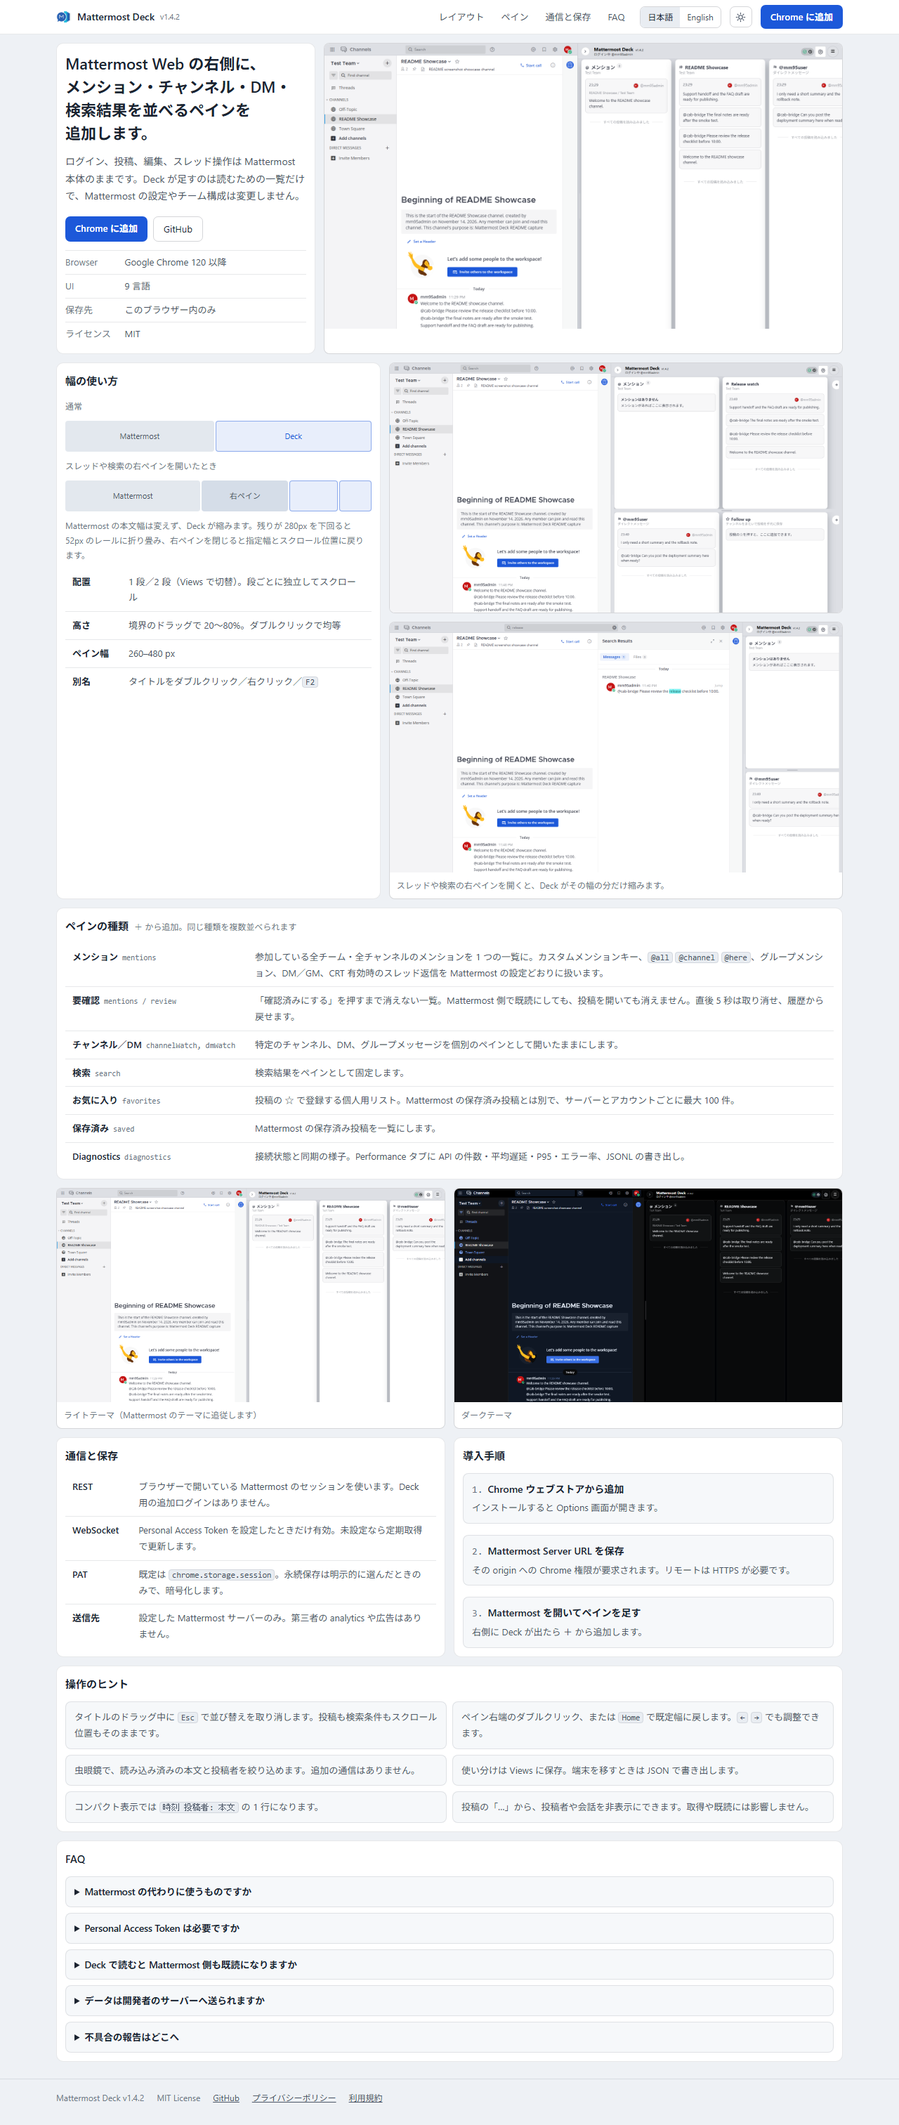
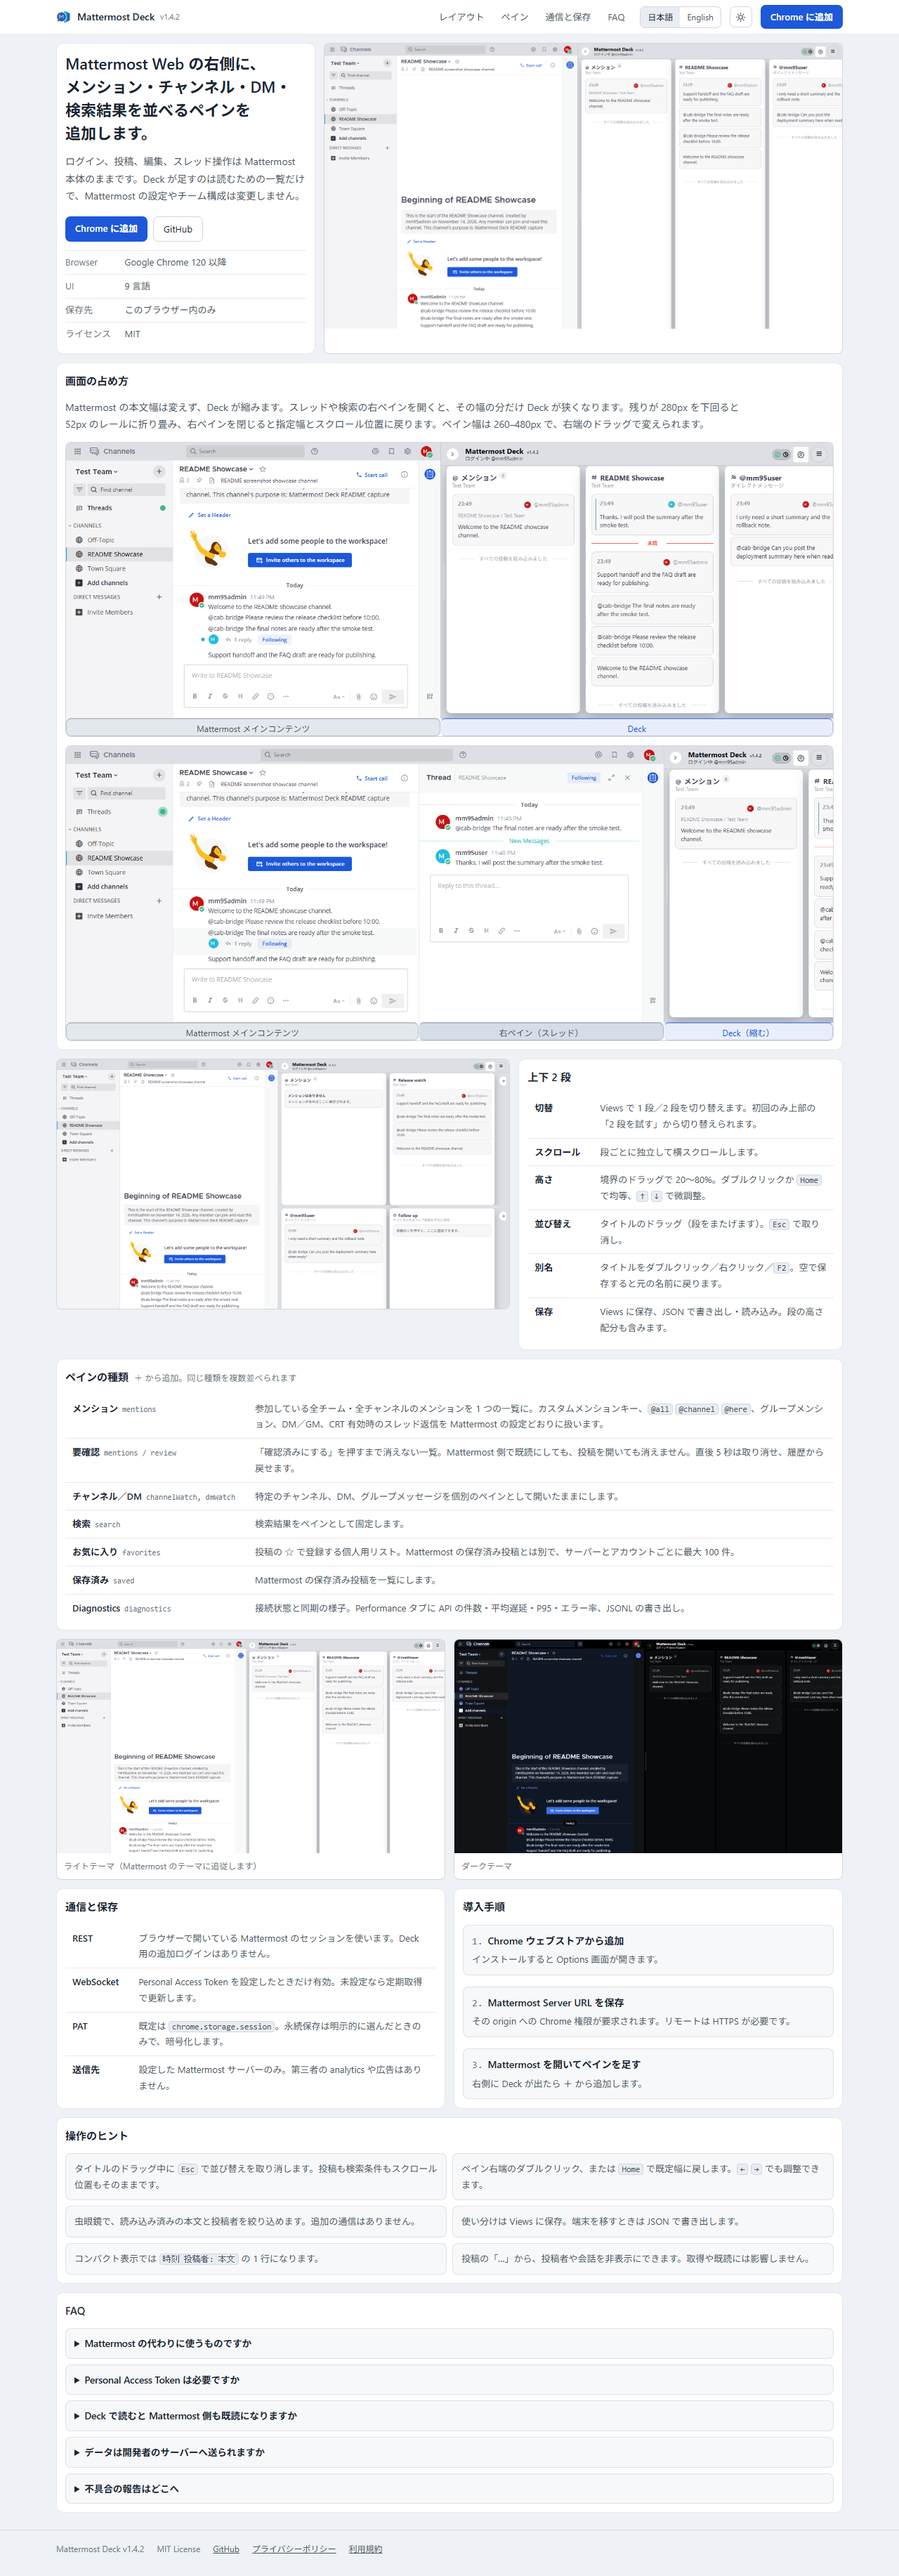
update: shorter screenshots with width bands, thread pane, separate two-rows section

Changed region(s): [[0.0625, 0.0, 0.9375, 0.9944], [0.4375, 0.0, 0.9375, 0.0932], [0.3438, 0.0, 0.4062, 0.0932]]

diff --git a/mock/deck-tone.html b/mock/deck-tone.html
@@ -91,15 +91,14 @@ main{padding:var(--gap) 0 24px;display:grid;gap:var(--gap)}
 .shot{margin:0;display:block;border:1px solid var(--line2);border-radius:8px;overflow:hidden;background:var(--shotbg)}
 figcaption{font-size:12px;color:var(--faint);margin-top:8px}
 
-/* width diagram */
-.diagram{display:grid;gap:10px}
-.strip{display:flex;height:44px;gap:2px;font-size:11px;color:var(--faint)}
-.strip i{display:grid;place-items:center;border-radius:4px;background:var(--card2);font-style:normal;overflow:hidden;white-space:nowrap}
-.strip .mm{flex:150;background:var(--mm);color:var(--soft)}
-.strip .rp{flex:96;background:var(--rp);color:var(--soft)}
-.strip .d{border:1px solid var(--dbd);background:var(--dbg);color:var(--accent)}
-.strip .d1{flex:52}.strip .d2{flex:34}
-.cap{font-size:12px;color:var(--faint);margin:0}
+.lead{margin:0 0 var(--gap);color:var(--soft);max-width:70em}
+.stack{display:grid;gap:var(--gap)}
+.band{display:flex;height:26px;font-size:12px;line-height:26px;margin-top:-1px}
+.band .seg{display:block;text-align:center;white-space:nowrap;overflow:hidden;text-overflow:ellipsis;color:var(--soft);background:var(--mm);border-top:2px solid var(--line2)}
+.band .seg+.seg{border-left:1px solid var(--bg)}
+.band .rp{background:var(--rp)}
+.band .dk{background:var(--dbg);color:var(--accent);border-top-color:var(--dbd)}
+@media(max-width:620px){.band{font-size:10px}}
 
 /* tables */
 table.list{width:100%;border-collapse:collapse;font-size:13px}
@@ -181,42 +180,48 @@ footer a{color:var(--soft)}
     </figure>
   </section>
 
-  <section id="layout" class="cols a">
+  <section id="layout" class="pane">
+    <h2><span lang="ja">画面の占め方</span><span lang="en">How it uses the width</span></h2>
+    <p class="lead">
+      <span lang="ja">Mattermost の本文幅は変えず、Deck が縮みます。スレッドや検索の右ペインを開くと、その幅の分だけ Deck が狭くなります。残りが 280px を下回ると 52px のレールに折り畳み、右ペインを閉じると指定幅とスクロール位置に戻ります。ペイン幅は 260–480px で、右端のドラッグで変えられます。</span>
+      <span lang="en">The Mattermost main area keeps its width and Deck shrinks. Opening a thread or search pane narrows Deck by the same width. Below 280 px it collapses to a 52 px rail, then restores its width and scroll position when the pane closes. Each pane is 260–480 px wide and resizes by dragging its right edge.</span>
+    </p>
+    <div class="stack">
+      <figure class="shot annotated">
+        <img class="t-dark" lang="ja" src="shots/wide-dark-ja.png" width="1720" height="620" loading="lazy" alt="Mattermost の右側に Deck を表示した画面">
+        <img class="t-dark" lang="en" src="shots/wide-dark-en.png" width="1720" height="620" loading="lazy" alt="Deck displayed beside Mattermost">
+        <img class="t-light" lang="ja" src="shots/wide-light-ja.png" width="1720" height="620" loading="lazy" alt="Mattermost の右側に Deck を表示した画面">
+        <img class="t-light" lang="en" src="shots/wide-light-en.png" width="1720" height="620" loading="lazy" alt="Deck displayed beside Mattermost">
+        <div class="band" aria-hidden="false"><span class="seg mm" style="width:48.84%"><span lang="ja">Mattermost メインコンテンツ</span><span lang="en">Mattermost main content</span></span><span class="seg dk" style="width:51.16%">Deck</span></div>
+      </figure>
+      <figure class="shot annotated">
+        <img class="t-dark" lang="ja" src="shots/rhs-dark-ja.png" width="1720" height="620" loading="lazy" alt="スレッドを右ペインで開いたときの画面">
+        <img class="t-dark" lang="en" src="shots/rhs-dark-en.png" width="1720" height="620" loading="lazy" alt="With a thread open in the right pane">
+        <img class="t-light" lang="ja" src="shots/rhs-light-ja.png" width="1720" height="620" loading="lazy" alt="スレッドを右ペインで開いたときの画面">
+        <img class="t-light" lang="en" src="shots/rhs-light-en.png" width="1720" height="620" loading="lazy" alt="With a thread open in the right pane">
+        <div class="band"><span class="seg mm" style="width:46%"><span lang="ja">Mattermost メインコンテンツ</span><span lang="en">Mattermost main content</span></span><span class="seg rp" style="width:31.9%"><span lang="ja">右ペイン（スレッド）</span><span lang="en">Right pane (thread)</span></span><span class="seg dk" style="width:22.1%"><span lang="ja">Deck（縮む）</span><span lang="en">Deck (narrower)</span></span></div>
+      </figure>
+    </div>
+  </section>
+
+  <section id="rows" class="cols b">
+    <figure class="shot" style="align-self:start">
+        <img class="t-dark" lang="ja" src="shots/two-rows-dark-ja.png" width="1720" height="948" loading="lazy" alt="上下 2 段に並べたペイン">
+        <img class="t-dark" lang="en" src="shots/two-rows-dark-en.png" width="1720" height="948" loading="lazy" alt="Panes arranged in two rows">
+        <img class="t-light" lang="ja" src="shots/two-rows-light-ja.png" width="1720" height="948" loading="lazy" alt="上下 2 段に並べたペイン">
+        <img class="t-light" lang="en" src="shots/two-rows-light-en.png" width="1720" height="948" loading="lazy" alt="Panes arranged in two rows">
+    </figure>
     <div class="pane">
-      <h2><span lang="ja">幅の使い方</span><span lang="en">How it uses width</span></h2>
-      <div class="diagram">
-        <p class="cap"><span lang="ja">通常</span><span lang="en">Normal</span></p>
-        <div class="strip" aria-hidden="true"><i class="mm">Mattermost</i><i class="d" style="flex:156">Deck</i></div>
-        <p class="cap"><span lang="ja">スレッドや検索の右ペインを開いたとき</span><span lang="en">With a thread or search pane open</span></p>
-        <div class="strip" aria-hidden="true"><i class="mm">Mattermost</i><i class="rp"><span lang="ja">右ペイン</span><span lang="en">right pane</span></i><i class="d d1"></i><i class="d d2"></i></div>
-        <p class="cap">
-          <span lang="ja">Mattermost の本文幅は変えず、Deck が縮みます。残りが 280px を下回ると 52px のレールに折り畳み、右ペインを閉じると指定幅とスクロール位置に戻ります。</span>
-          <span lang="en">The Mattermost main area keeps its width and Deck shrinks. Below 280 px it collapses to a 52 px rail, then restores its width and scroll position when the right pane closes.</span>
-        </p>
-      </div>
-      <table class="list" style="margin-top:8px">
-        <tr><td class="k"><span lang="ja">配置</span><span lang="en">Rows</span></td><td><span lang="ja">1 段／2 段（Views で切替）。段ごとに独立してスクロール</span><span lang="en">One or two rows (Views menu), each scrolling independently</span></td></tr>
-        <tr><td class="k"><span lang="ja">高さ</span><span lang="en">Height</span></td><td><span lang="ja">境界のドラッグで 20〜80%。ダブルクリックで均等</span><span lang="en">Drag the divider, 20–80%. Double-click to even out</span></td></tr>
-        <tr><td class="k"><span lang="ja">ペイン幅</span><span lang="en">Pane width</span></td><td>260–480 px</td></tr>
-        <tr><td class="k"><span lang="ja">別名</span><span lang="en">Rename</span></td><td><span lang="ja">タイトルをダブルクリック／右クリック／<kbd>F2</kbd></span><span lang="en">Double-click or right-click the title, or <kbd>F2</kbd></span></td></tr>
+      <h2><span lang="ja">上下 2 段</span><span lang="en">Two rows</span></h2>
+      <table class="list">
+        <tr><td class="k"><span lang="ja">切替</span><span lang="en">Switch</span></td><td><span lang="ja">Views で 1 段／2 段を切り替えます。初回のみ上部の「2 段を試す」から切り替えられます。</span><span lang="en">Switch between one and two rows from Views. A one-time “Try two rows” shortcut also appears above the panes.</span></td></tr>
+        <tr><td class="k"><span lang="ja">スクロール</span><span lang="en">Scrolling</span></td><td><span lang="ja">段ごとに独立して横スクロールします。</span><span lang="en">Each row scrolls horizontally on its own.</span></td></tr>
+        <tr><td class="k"><span lang="ja">高さ</span><span lang="en">Height</span></td><td><span lang="ja">境界のドラッグで 20〜80%。ダブルクリックか <kbd>Home</kbd> で均等、<kbd>↑</kbd> <kbd>↓</kbd> で微調整。</span><span lang="en">Drag the divider, 20–80%. Double-click or <kbd>Home</kbd> to even out; <kbd>↑</kbd> <kbd>↓</kbd> adjust.</span></td></tr>
+        <tr><td class="k"><span lang="ja">並び替え</span><span lang="en">Reorder</span></td><td><span lang="ja">タイトルのドラッグ（段をまたげます）。<kbd>Esc</kbd> で取り消し。</span><span lang="en">Drag a title, across rows too. <kbd>Esc</kbd> cancels.</span></td></tr>
+        <tr><td class="k"><span lang="ja">別名</span><span lang="en">Rename</span></td><td><span lang="ja">タイトルをダブルクリック／右クリック／<kbd>F2</kbd>。空で保存すると元の名前に戻ります。</span><span lang="en">Double-click or right-click the title, or <kbd>F2</kbd>. Save empty to restore the original.</span></td></tr>
+        <tr><td class="k"><span lang="ja">保存</span><span lang="en">Saving</span></td><td><span lang="ja">Views に保存、JSON で書き出し・読み込み。段の高さ配分も含みます。</span><span lang="en">Save as Views; export and import as JSON, including the height split.</span></td></tr>
       </table>
     </div>
-    <div style="display:grid;gap:var(--gap);align-self:start">
-    <figure class="shot" >
-      <img class="t-dark" lang="ja" src="shots/two-rows-dark-ja.png" width="1720" height="948" loading="lazy" alt="上下 2 段に並べたペイン">
-      <img class="t-dark" lang="en" src="shots/two-rows-dark-en.png" width="1720" height="948" loading="lazy" alt="Panes arranged in two rows">
-      <img class="t-light" lang="ja" src="shots/two-rows-light-ja.png" width="1720" height="948" loading="lazy" alt="上下 2 段に並べたペイン">
-      <img class="t-light" lang="en" src="shots/two-rows-light-en.png" width="1720" height="948" loading="lazy" alt="Panes arranged in two rows">
-    <figcaption style="padding:0 10px 8px"><span lang="ja">上下 2 段とペインの別名。</span><span lang="en">Two rows, with panes renamed.</span></figcaption>
-    </figure>
-    <figure class="shot">
-        <img class="t-dark" lang="ja" src="shots/two-rows-rhs-dark-ja.png" width="1720" height="948" loading="lazy" alt="右ペインを開いたときの表示">
-        <img class="t-dark" lang="en" src="shots/two-rows-rhs-dark-en.png" width="1720" height="948" loading="lazy" alt="With a right pane open">
-        <img class="t-light" lang="ja" src="shots/two-rows-rhs-light-ja.png" width="1720" height="948" loading="lazy" alt="右ペインを開いたときの表示">
-        <img class="t-light" lang="en" src="shots/two-rows-rhs-light-en.png" width="1720" height="948" loading="lazy" alt="With a right pane open">
-      <figcaption style="padding:0 10px 8px"><span lang="ja">スレッドや検索の右ペインを開くと、Deck がその幅の分だけ縮みます。</span><span lang="en">Opening a thread or search pane makes Deck shrink by the same width.</span></figcaption>
-    </figure>
-  </div>
   </section>
 
   <section id="panes" class="pane">
